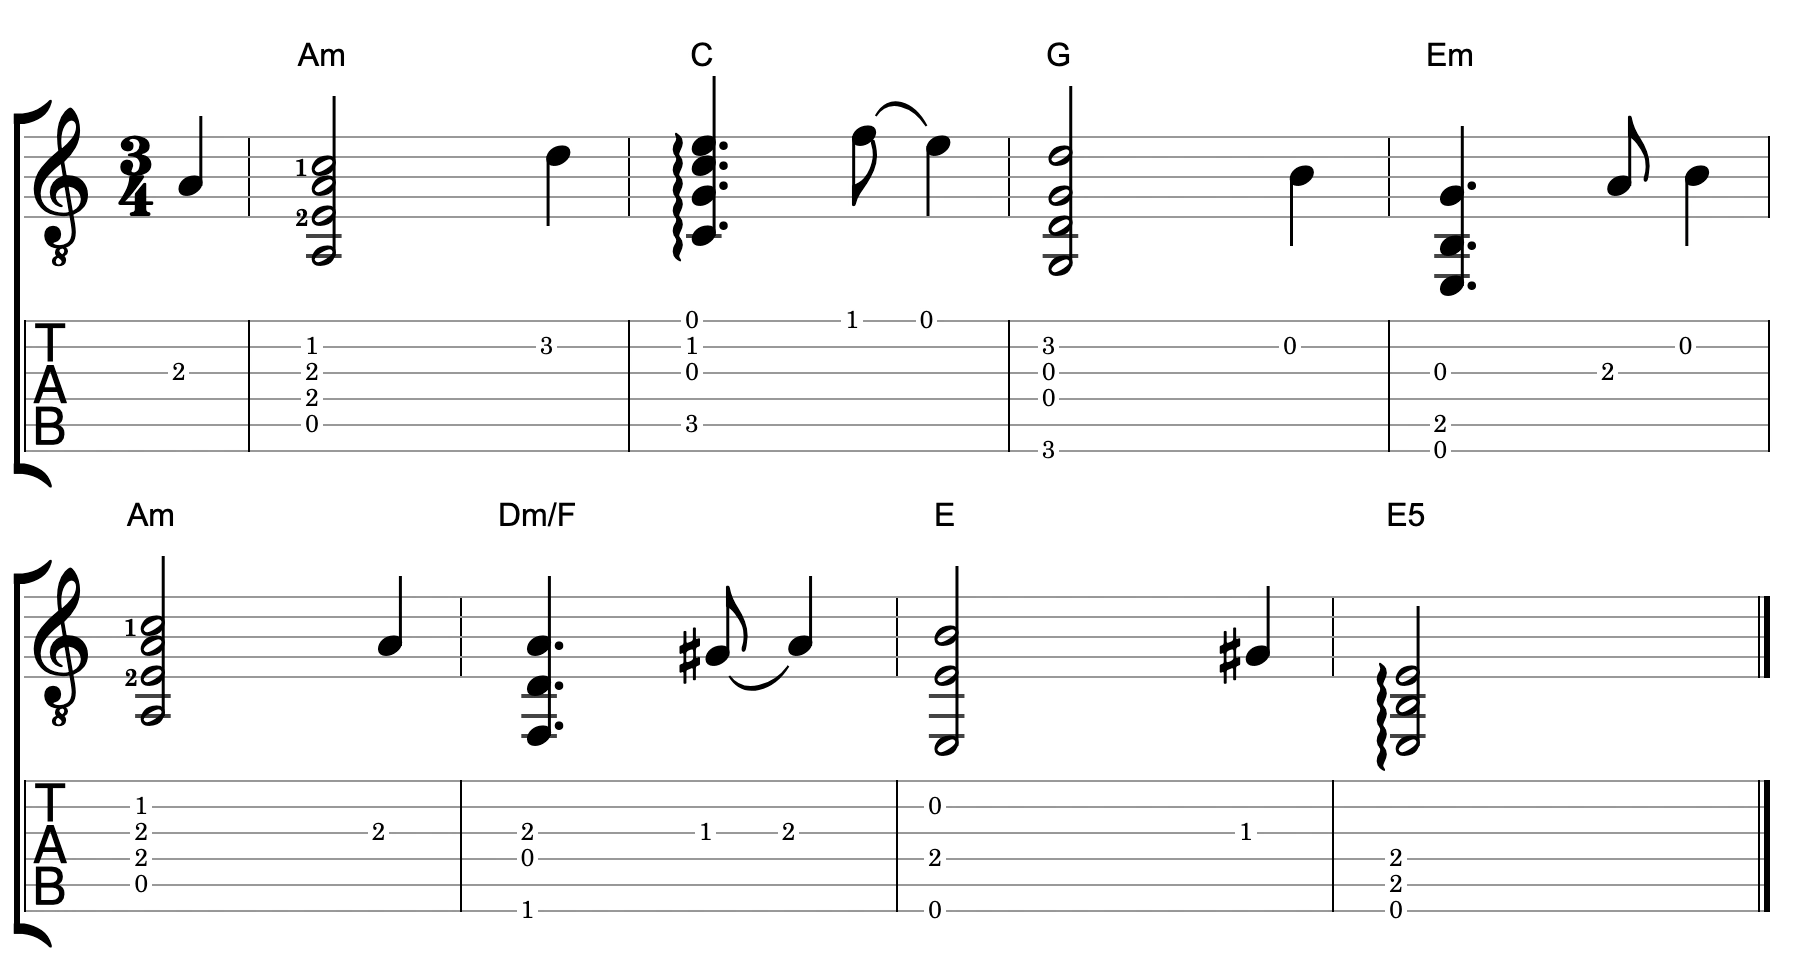
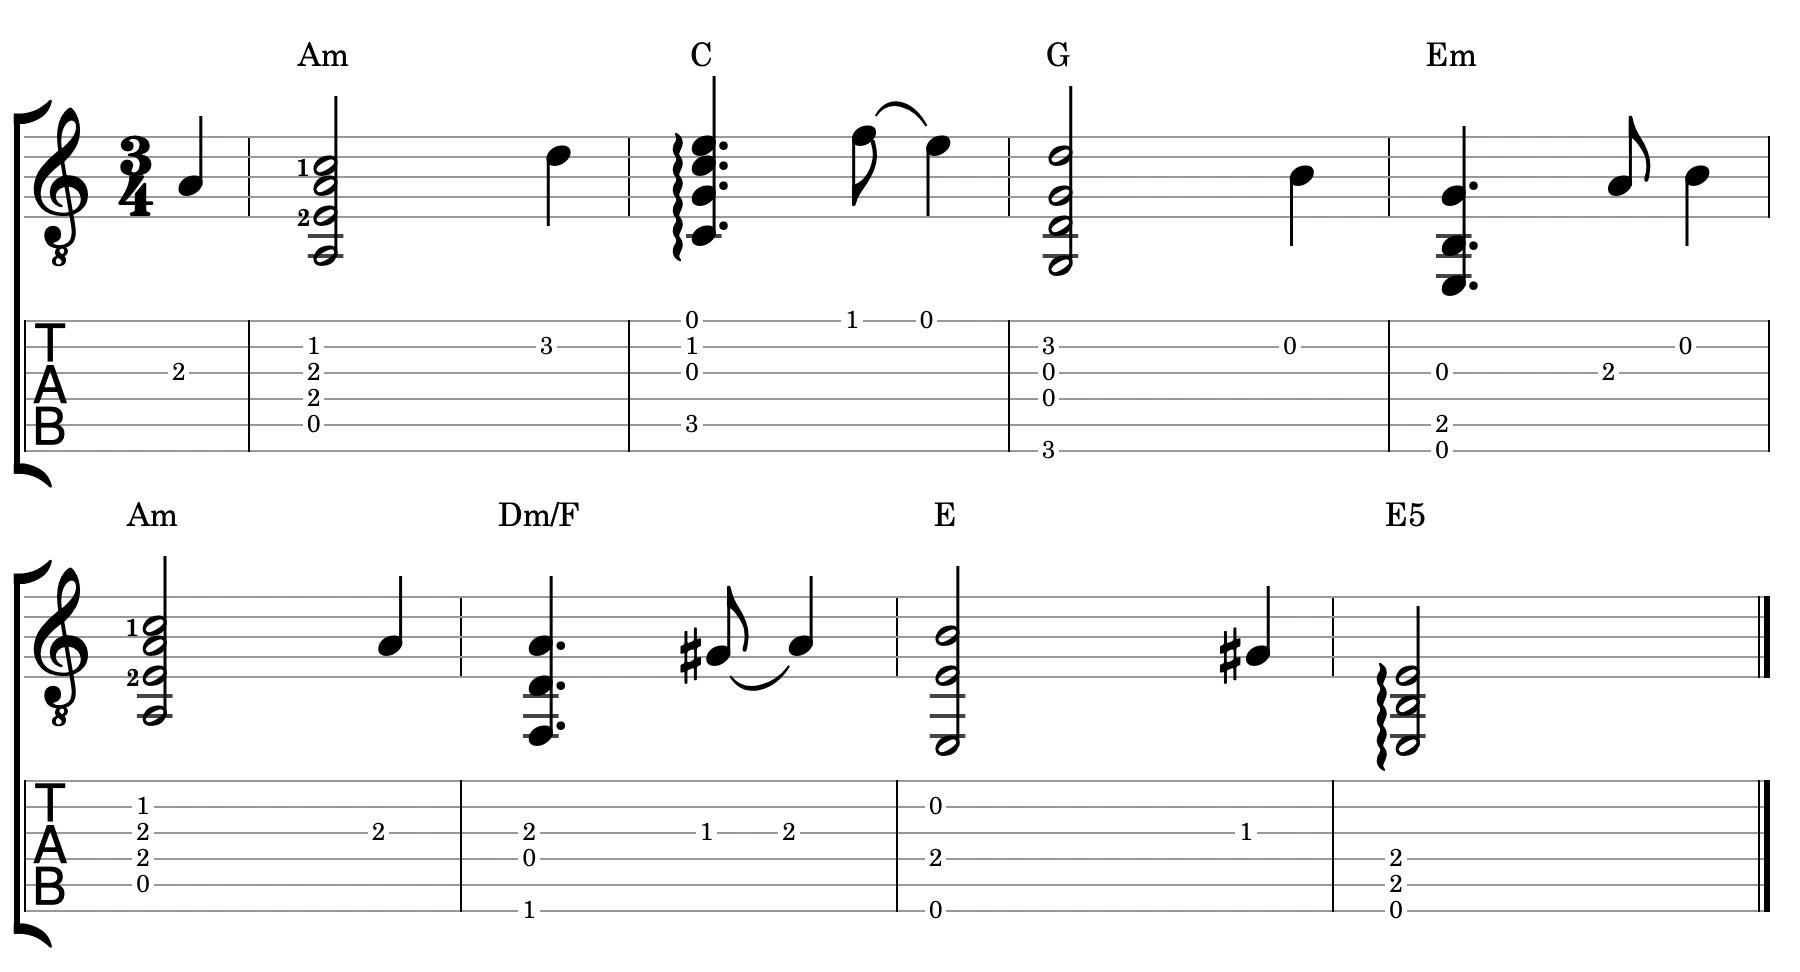
Use the score text face for Greensleeves and Kesh chords (#361)

diff --git a/tests/demos/kesh.ts b/tests/demos/kesh.ts
@@ -11,8 +11,6 @@ export function kesh(options: TestOptions): void {
   const f = VexFlowTests.makeFactory(options, 900, 580);
   const score = f.EasyScore({ throwOnError: true });
   score.set({ time: '6/8' });
-  // Use the same upright lettering for a change on either beat of the bar.
-  const chordFont = { fontFamily: 'Arial, Helvetica, sans-serif', fontSize: 12 };
   // The McNeela chart suggests two changes within some bars and different pickups at the repeats.
   const strains: JigBar[][] = [
     [
@@ -54,8 +52,8 @@ export function kesh(options: TestOptions): void {
       for (const beat of beats) {
         if (beat.length === 3) score.beam(beat);
       }
-      if (chord) beats[0][0].addModifier(score.make.chordSymbol(chordFont).addText(chord));
-      if (nextChord) beats[1][0].addModifier(score.make.chordSymbol(chordFont).addText(nextChord));
+      if (chord) beats[0][0].addModifier(score.make.chordSymbol().addText(chord));
+      if (nextChord) beats[1][0].addModifier(score.make.chordSymbol().addText(nextChord));
       if (i === 0 || i === 4) {
         const grace = score.make.graceNote({ keys: [part ? 'd/5' : 'b/4'], duration: '8', slash: true });
         notes[1].addModifier(score.make.graceNoteGroup({ notes: [grace], slur: true }));

diff --git a/tests/demos/greensleeves.ts b/tests/demos/greensleeves.ts
@@ -28,8 +28,6 @@ const positions: Record<string, [number, number]> = {
 export function greensleeves(options: TestOptions): void {
   const f = VexFlowTests.makeFactory(options, 900, 486);
   const score = f.EasyScore({ throwOnError: true });
-  // Upright sans-serif chord names sit above the melody, including the slash bass in Dm/F.
-  const chordFont = { fontFamily: 'Arial, Helvetica, sans-serif', fontSize: 12 };
   const bars = [
     ['', 'A4/q'],
     ['Am', 'A3+E4+A4+C5/h D5/q'],
@@ -56,7 +54,7 @@ export function greensleeves(options: TestOptions): void {
       return `${chord}/${duration}`;
     });
     const notes = score.notes(music.join(', '));
-    if (chordName) notes[0].addModifier(score.make.chordSymbol(chordFont).addText(chordName));
+    if (chordName) notes[0].addModifier(score.make.chordSymbol().addText(chordName));
     const tab = events.map(({ pitches, duration }) =>
       score.make.tabNote({
         positions: pitches.map((pitch) => {

diff --git a/tests/scores/kesh.js b/tests/scores/kesh.js
@@ -36,8 +36,7 @@
   /** Build the native marks in the factory that owns this particular score or cue. */
   function fiddleMarks({ chord, cut }, note, builder) {
     const f = builder.getFactory();
-    if (chord)
-      note.addModifier(f.ChordSymbol({ fontFamily: 'Arial, Helvetica, sans-serif', fontSize: 12 }).addText(chord));
+    if (chord) note.addModifier(f.ChordSymbol().addText(chord));
     if (cut) {
       const grace = f.GraceNote({ keys: [cut], duration: '8', slash: true });
       note.addModifier(f.GraceNoteGroup({ notes: [grace], slur: true }));

diff --git a/docs/vf6/font-plan.md b/docs/vf6/font-plan.md
@@ -9,7 +9,7 @@ Readers should be able to follow a lyric line, recognize a chord extension, and 
 | Font selection | The full and Bravura bundles register regular and bold Academico. Metrics already give annotations, chord symbols, and many stave labels a text-first stack. The core bundle loads faces on demand. | Build on `setTextFonts()`, category metrics, and per-element overrides. Check the face that actually supplies the letters, spaces, and bold digits in each bundle. [Font selection](../../src/vexflow.ts) · [Metrics](../../src/metrics.ts) · [Earlier spacing fix](https://github.com/vexflow/vexflow/issues/152) |
 | Lyrics | Continuous lyrics use annotation metrics and can set `labelFontSize`. Saints sets both its syllables and its held “in” to 15 pt in Petaluma Script. In the gallery preview, the held syllable sits noticeably lower than the surrounding verse. | Use this phrase to review baseline continuity, extender height, and legibility in both engraved and handwritten lettering. [Span labels](../../src/continuousspan.ts) · [Saints](../../tests/scores/saints.js) |
 | Mixed labels | A chord can contain letters, an engraved accidental, and superscript digits. The opt-in chord kerning path measures separate runs. Tempo marks also combine words and music glyphs. | Compare literal text and glyph-bearing labels in both chord layout modes. Use the existing music glyphs for accidentals, metronome notes, and dynamics. [Chord kerning](../../src/chordkerning.ts) · [Tempo](../../src/stavetempo.ts) · [Dynamics](../../src/textdynamics.ts) |
-| Guitar labels | The first-fret label draws in a hard-coded 9 pt sans serif. Tie text calculates its center before installing its drawing font. Greensleeves, Kesh, and High Wire explicitly request sans-serif lettering. | Exercise a two-digit fret and an H/P tie after changing the preceding context font. Review the demo lettering as a separate editorial choice. [Fret diagram](../../src/fretdiagram.ts) · [Tie text](../../src/stavetie.ts) · [Greensleeves](../../tests/demos/greensleeves.ts) |
+| Guitar labels | Tie text calculates its center before installing its drawing font. Greensleeves, Kesh, and High Wire explicitly request sans-serif lettering. | Check H/P tie centering after changing the preceding context font. Fret diagrams are outside this project. [Tie text](../../src/stavetie.ts) · [Greensleeves](../../tests/demos/greensleeves.ts) |
 | Print | Publication measures page furniture in SVG pixels. The Ballade uses Times New Roman for edition lettering and explicitly draws the dynamic in “meno f” with Bravura. The supplied Academico assets cover regular and bold. | Compare the printed title, dedication, fingerings, and *meno* beside the engraved *f*. Check italic text in outlined export as well as in the browser. [Publication](../../src/publication.ts) · [Ballade](../../tests/scores/ballade.js) · [Outline tests](../../tests/node/svg-export-tests.mjs) |
 
 ## Milestone 1 · Agree on a visual reference
@@ -20,10 +20,16 @@ Use the 5.5.0 tag as the reference. Capture a full system at reading size and a 
 | --- | --- | --- |
 | Saints lyric and held syllable | Academico at 11, 12, and 13 pt beside the existing 15 pt handwritten treatment | Word spacing, descenders, common baseline, hyphens and extenders at a system break |
 | Greensleeves and Saints chord changes | Start at the current 12 pt chord default. Include Dm/F and an altered dominant with a raised extension. | Root aligned with its note, readable bass and extensions, clearance above stems |
-| High Wire and a chord frame | Start with 9–10 pt fingerings and technique letters. Include a double-digit fret. | Digits centered on strings, H/P/T clear of ties and beams, first-fret label inside its bounds |
+| High Wire’s tapped run | Start with 9–10 pt fingerings and technique letters. Include a double-digit fret. | Digits centered on strings, H/P/T clear of ties and beams, tap labels aligned with their attacks |
 | Prelude and Chopin’s Ballade | Compare the current 14 pt named tempo with body text and rehearsal labels. Read the Ballade at actual Letter size. | Clear hierarchy, comfortable margins, and the same engraved dynamics beside new lettering |
 
 These are trial sizes at the reference staff size. Choose the smallest set that reads well at normal scale and as a reduced part. Record the selected sizes and any intentional exceptions on the issue before changing defaults.
+
+### First score review
+
+Greensleeves and both editions of Kesh now inherit the chord font. At the standard staff size, regular 12 pt Academico keeps Dm/F readable above the attack and fits between the Kesh rehearsal letters and staff. Explicit score font changes still apply. Chrome confirmed the actual face for Dm/F before and after the change.
+
+The issue review compares Saints at 11, 12, and 13 pt Academico with its 15 pt handwritten edition. The 12 pt sample is the starting point for engraved lyrics. The held syllable’s lower baseline is a separate layout question. High Wire has a 10 pt bold comparison for the technique letters. Prelude and the Letter-sized Ballade provide reference examples of mixed text and music glyphs.
 
 ## Milestone 2 · Resolve the right face for each role
 
@@ -33,13 +39,13 @@ Inventory other text paths in the library, guide, Explorer, and score examples. 
 
 ## Milestone 3 · Make layout agree with drawing
 
-Measure with the same family, size, weight, and style used to draw. Start with tie centering and the first-fret label. Check lyric and chord reservations before line breaking, distances above and below the staff, and the ink bounds of fingerings, boxes, and page furniture. Keep point sizes, CSS pixels, and physical page dimensions explicit at conversion boundaries.
+Measure with the same family, size, weight, and style used to draw. Start with tie centering. Check lyric and chord reservations before line breaking, distances above and below the staff, and the ink bounds of fingerings, boxes, and page furniture. Keep point sizes, CSS pixels, and physical page dimensions explicit at conversion boundaries.
 
 **Verify** SVG and Canvas with wide → narrow → wide reflow and at two staff sizes. Look for stable lyric baselines, extenders that clear their syllables, legible chord scripts, and centered labels even after the previous draw used a different font. Add focused geometry assertions for failures found in the samples. Record any intentional change to a system or page break. [Chord tests](../../tests/node/chord-kerning-tests.mjs) · [Print tests](../../tests/node/publication-tests.mjs)
 
 ## Milestone 4 · Review the repertoire
 
-Review both the QUnit and interactive editions. Compare Saints in its handwritten style with an Academico specimen. Compare the previously requested upright sans-serif chords in Greensleeves and Kesh, and H/P/T in High Wire, with the proposed default. Use the original Ballade edition as the reference for its title and dedication. Record a choice for each of these on the issue. Check Prelude dynamics, Sumer’s overlapping parts, and the drum and microtonal scores for crowded labels.
+Review both the QUnit and interactive editions. Compare Saints in its handwritten style with an Academico specimen. Use the default chord face in Greensleeves and both Kesh editions. Compare the H/P/T lettering in High Wire with the proposed default. Use the original Ballade edition as the reference for its title and dedication. Record a choice for each of these on the issue. Check Prelude dynamics, Sumer’s overlapping parts, and the drum and microtonal scores for crowded labels.
 
 **Verify** the guide and Explorer examples at desktop and mobile widths. Generate the Minuet, Fugue, and Ballade PDFs and inspect the pages at actual size, including accented characters, furniture, and page turns. Refresh gallery previews after the score treatment is accepted.
 
